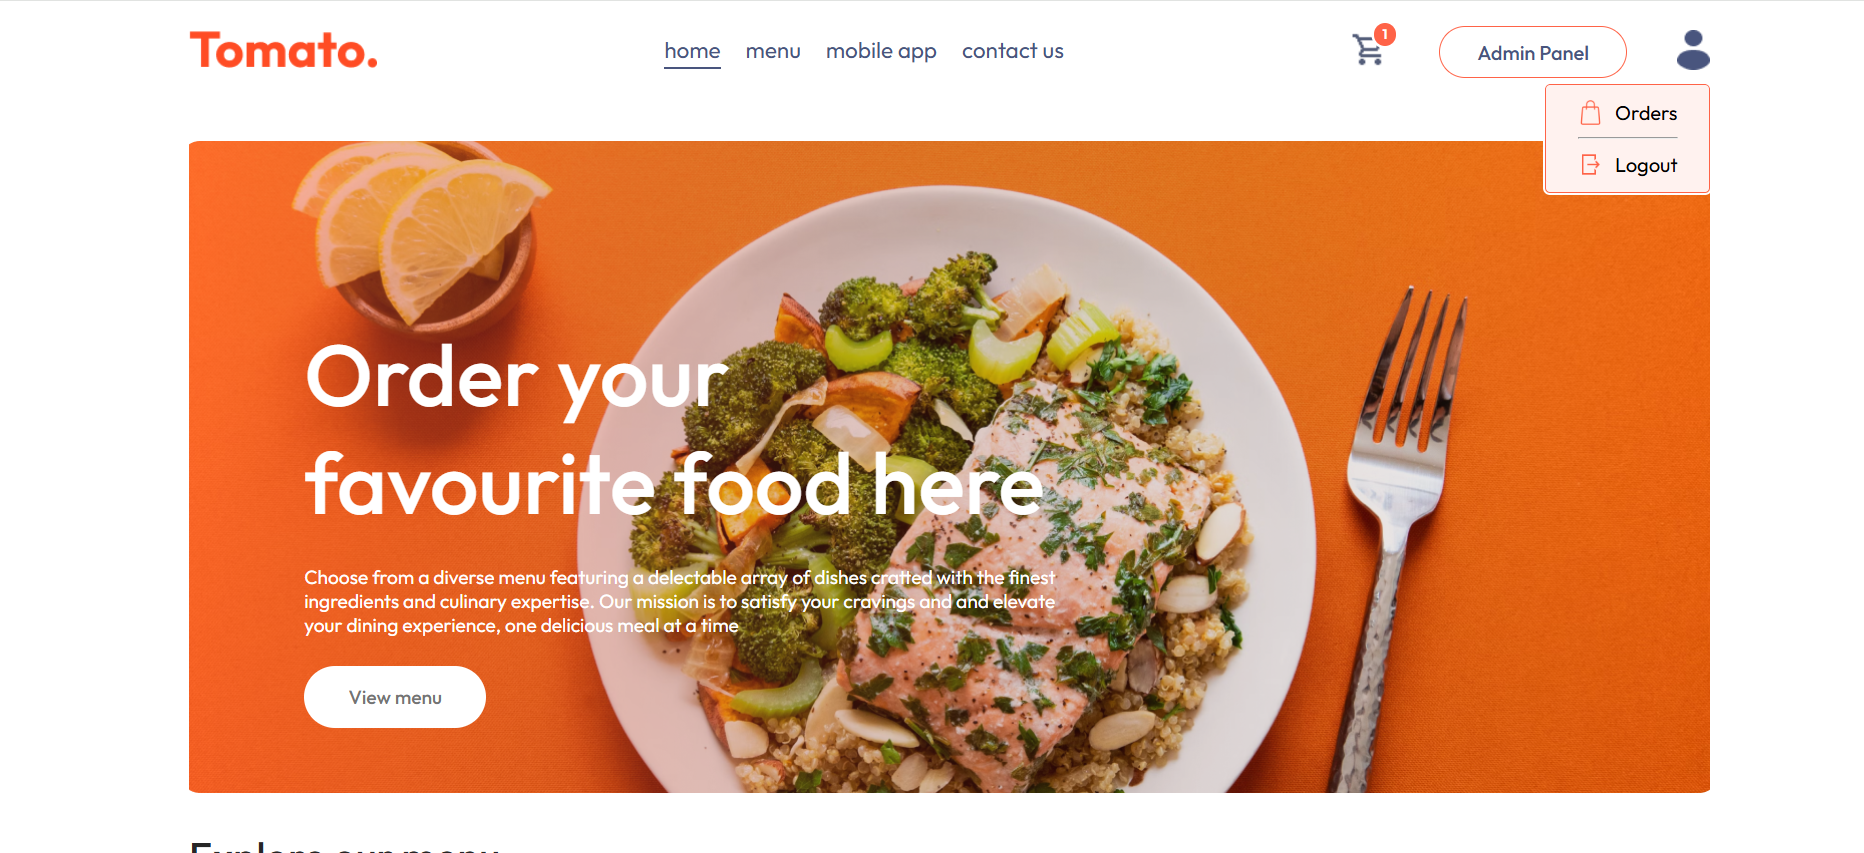
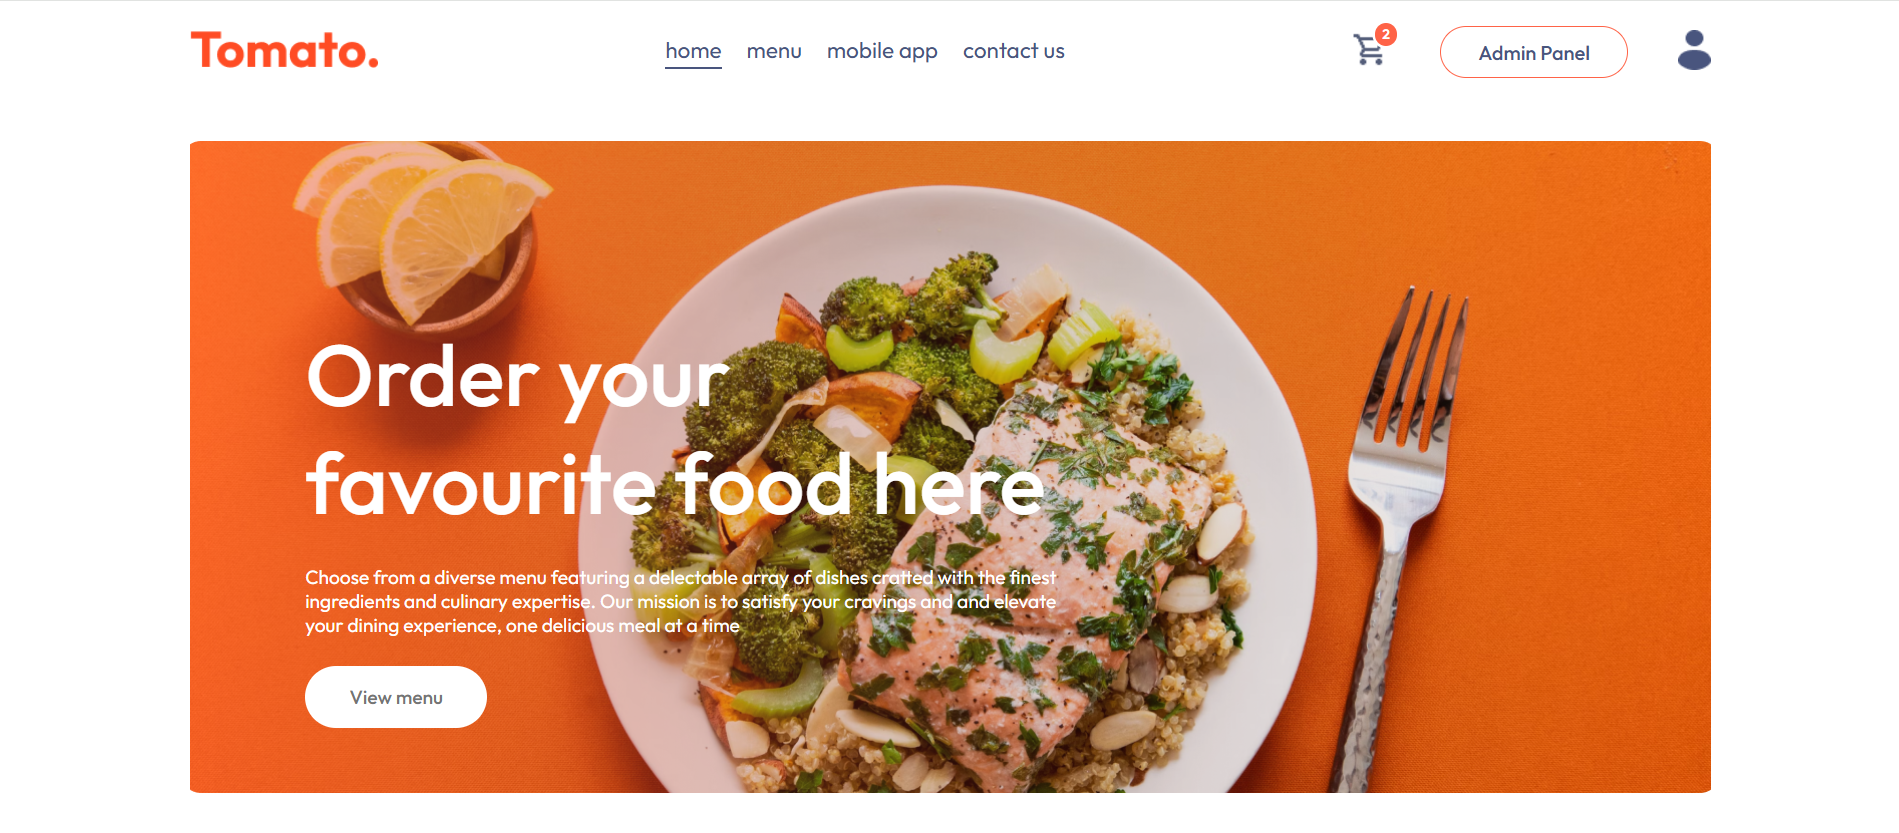
Fix dependencies and setup projects

diff --git a/Backend/controllers/placeorder.controller.js b/Backend/controllers/placeorder.controller.js
@@ -170,10 +170,21 @@ const stripeverifyOrder = async (req, res) => {
 const userOrders = async (req, res) => {
     try {
         const userId = req.userId;
-        const orders = await orderModel.find({ userId }).populate("userId", "name email").populate({
+        let orders = await orderModel.find({ userId }).populate("userId", "name email").populate({
             path: "items.foodId",
             select: "name price image category"
-        }).exec()
+        }).exec();
+
+        // Automatically clean up any orders containing deleted food items (null foodId)
+        const orphanedOrderIds = orders
+            .filter(order => order.items.some(item => !item.foodId))
+            .map(order => order._id);
+
+        if (orphanedOrderIds.length > 0) {
+            await orderModel.deleteMany({ _id: { $in: orphanedOrderIds } });
+            orders = orders.filter(order => !orphanedOrderIds.includes(order._id));
+        }
+
         res.json({
             success: true,
             data: orders
@@ -192,11 +203,22 @@ const userOrders = async (req, res) => {
 const listOrder = async (req, res) => {
 
     try {
-        const orders = await orderModel.find({}).populate("userId", "name email").populate(
+        let orders = await orderModel.find({}).populate("userId", "name email").populate(
             {
                 path: "items.foodId",
                 select: "name price category image "
             }).exec();
+
+        // Automatically clean up any orders containing deleted food items (null foodId)
+        const orphanedOrderIds = orders
+            .filter(order => order.items.some(item => !item.foodId))
+            .map(order => order._id);
+
+        if (orphanedOrderIds.length > 0) {
+            await orderModel.deleteMany({ _id: { $in: orphanedOrderIds } });
+            orders = orders.filter(order => !orphanedOrderIds.includes(order._id));
+        }
+
         res.json({
             success: true,
             data: orders

diff --git a/Backend/controllers/food.controllers.js b/Backend/controllers/food.controllers.js
@@ -1,4 +1,6 @@
 import foodModel from '../models/food.models.js'
+import orderModel from '../models/order.models.js'
+import userModel from '../models/user.models.js'
 import { v2 as cloudinary } from "cloudinary";
 
 
@@ -86,21 +88,28 @@ const removeFood = async (req, res) => {
         const fooditem = await foodModel.findById(id);
         if (!fooditem) {
             return res.status(404).json({
-                success: true,
+                success: false,
                 message: "Food Not Found"
             })
         }
 
         const url = fooditem.image;
-        const publicId = url.split("/").pop().split(".")[0];
+        if (url) {
+            const publicId = url.split("/").pop().split(".")[0];
+            await cloudinary.uploader.destroy(publicId);
+        }
 
-        await cloudinary.uploader.destroy(publicId);
+        await foodModel.findByIdAndDelete(id);
 
-        await foodModel.findByIdAndDelete(req.body.id);
+        // Delete all orders associated with this deleted food item
+        await orderModel.deleteMany({ "items.foodId": id });
+
+        // Remove item from all users' carts
+        await userModel.updateMany({}, { $unset: { [`cartData.${id}`]: "" } });
 
         res.status(200).json({
             success: true,
-            message: "Food Removed"
+            message: "Food Removed and related orders cleaned up"
         })
     }
     catch (error) {

diff --git a/admin/src/pages/Orders/Orders.jsx b/admin/src/pages/Orders/Orders.jsx
@@ -64,7 +64,7 @@ function Orders() {
                             <p className='order-item-food'>
                                 {order.items.map((item,index) => (
                                     <span key={index}>
-                                        {item.foodId.name }
+                                        {item.foodId?.name || "Item Removed"}
                                         {order.items.length -1 !== index &&  " , "}
                                     </span>
                                 ))}

diff --git a/Frontend/src/pages/MyOrders/MyOrders.jsx b/Frontend/src/pages/MyOrders/MyOrders.jsx
@@ -47,7 +47,7 @@ function MyOrders() {
                         <img src={assets.parcel_icon} alt="" />
                         <p>{order.items.map((item, index) => (
                             <span key={index}>
-                                {item.foodId.name} X {item.quantity}
+                                {item.foodId?.name || "Item Removed"} X {item.quantity}
                                 {order.items.length - 1 !== index && " , "}
                             </span>
                         ))}</p>

diff --git a/README.md b/README.md
@@ -139,7 +139,6 @@ STRIPE_SECRET_KEY=your_stripe_secret
 STRIPE_WEBHOOK_SECRET=your_webhook_secret
 # ➤ Replace with your Stripe keys for handling payments
 
-FRONTEND_URL = "http://localhost:5173"
 
 ```
 #### frontend/.env
